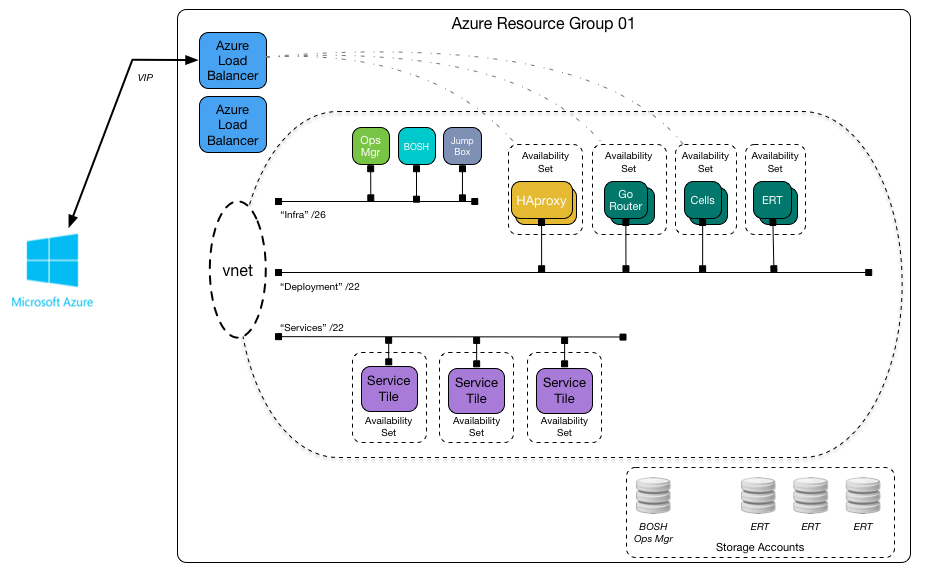
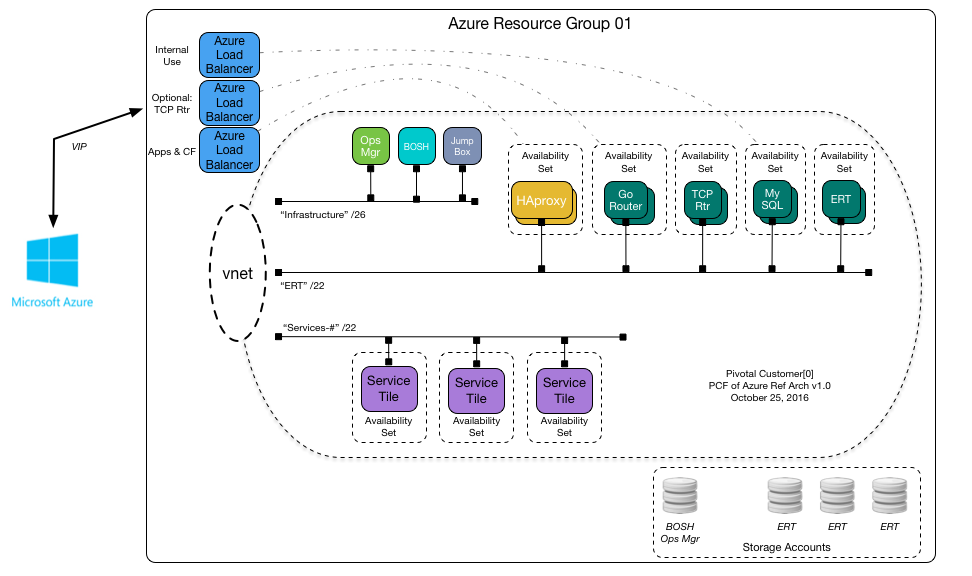
Expanded Azure Ref Arch, improved image

diff --git a/azure/refarch-main.md b/azure/refarch-main.md
@@ -6,11 +6,8 @@ Validation Key Info (Date last Updated)
 
 | PCF Products Validated        | Version                   |
 | ----------------------------- |:-------------------------:|
-| PCF Ops Manager               | 1.8.?	(Link to Pipelines) |
-| Elastic Runtime               | 1.8.?                         |
-| future                        | ? 		                    |
-| future                        | ? 	                      |
-| future                        | ? 		                    |
+| PCF Ops Manager               | 1.8.latest |
+| Elastic Runtime               | 1.8.latest                |
 
 ### Pivotal Customer0 Reference Architecture Overview
 
@@ -22,23 +19,37 @@ The reference approach is to create a Resource Group, populate it with a virtual
 
 ### IaaS Architecture
 
-  ![]Image
-
 In Azure, you will need some architectural constructs to deploy products in:
-  - A Service Principal account in a Azure Active Directory (ADD) application for BOSH to use to deploy PCF with
-  - A Resource Group per PCF installation, two required for HA
-  - Availability Sets for each BOSH job
-  - A Virtual Network with three subnets for PCF. Note that a subnet is a logical component of a single Virtual Network.
-  - Network Security Groups
-  - Two Azure Load Balancers (ALBs), one for public access and one for internal use (like MySQL)
+  - (1) Service Principal account in a Azure Active Directory (ADD) application for BOSH to use to deploy PCF with [here](http://docs-pcf-review.cfapps.io/pivotalcf/1-8/customizing/azure-prepare-env.html)
+  - (1) Resource Group per PCF installation. Duplicate this for for HA.
+  - (\*) Availability Sets created by BOSH for each deployment job type
+  - (1) Virtual Network (vnet) with a large range of address space that will be sub-divided
+    - Example: 10.xxx.yyy.0/20
+      - (1) Infra 10.xxx.yyy.0/26
+      - (1) ERT 10.xxx.yyy.0/22
+      - (1) Services-# 10.xxx.yyy.0/22
+    - Note that a subnet is a logical component of a single Virtual Network.
+  - (\*) Network Security Groups (NSGs) - one or more to meet security requirements, firewall rules that apply to network interfaces
+  - (3) Azure Load Balancers (ALBs)
+    - (1) Public app access
+    - (1) Internal use, for example MySQL
+    - Optional (1) TCP Routers, if option is selected
+  - (4) Standard Storage Accounts to match deployment needs (\*see caveats)
+    - (1) Ops Manager + BOSH
+    - (3) ERT and other tile deployments
+  - (1) Jump Box on the Infra network to provide CLI tools
+  - (1 - 4) Public IPs
+    - (1) VIP for ALB for CF domains (sys. and apps.)
+    - Optional (1) VIP for ALB to TCP Routers
+    - Optional (1) SSH into jump box
+    - Optional (1) HTTPS Ops Manager
 
 ### Network Topology
 
   ![]Image
 
-Explain
-
-  - Security Controls (ACLs)
+  - NSGs
+    - [here](http://docs-pcf-review.cfapps.io/pivotalcf/1-8/customizing/azure-om-deploy.html)
   - Application Security Groups
   - Load Balancer Topology
   - Private RFC versus Public IP Addresses
@@ -48,7 +59,7 @@ Explain
 
 ### Caveats and Concerns
 
-Azure Storage Accounts have an IOPs limit (20k, per) which generally relates to a VM limit of 20 VMs per (safely). Sive your deployments accordingly.
+Azure Storage Accounts have an IOPs limit (20k, per) which generally relates to a VM limit of 20 VMs per (safely). Consumers aren't charged by the Storage Account but rather by consumption. Size your deployments accordingly.
 
 A practical jump box inside your Azure deployment can be very useful. A Linux VM with a number of useful CLIs pre-installed is recommended:
 
